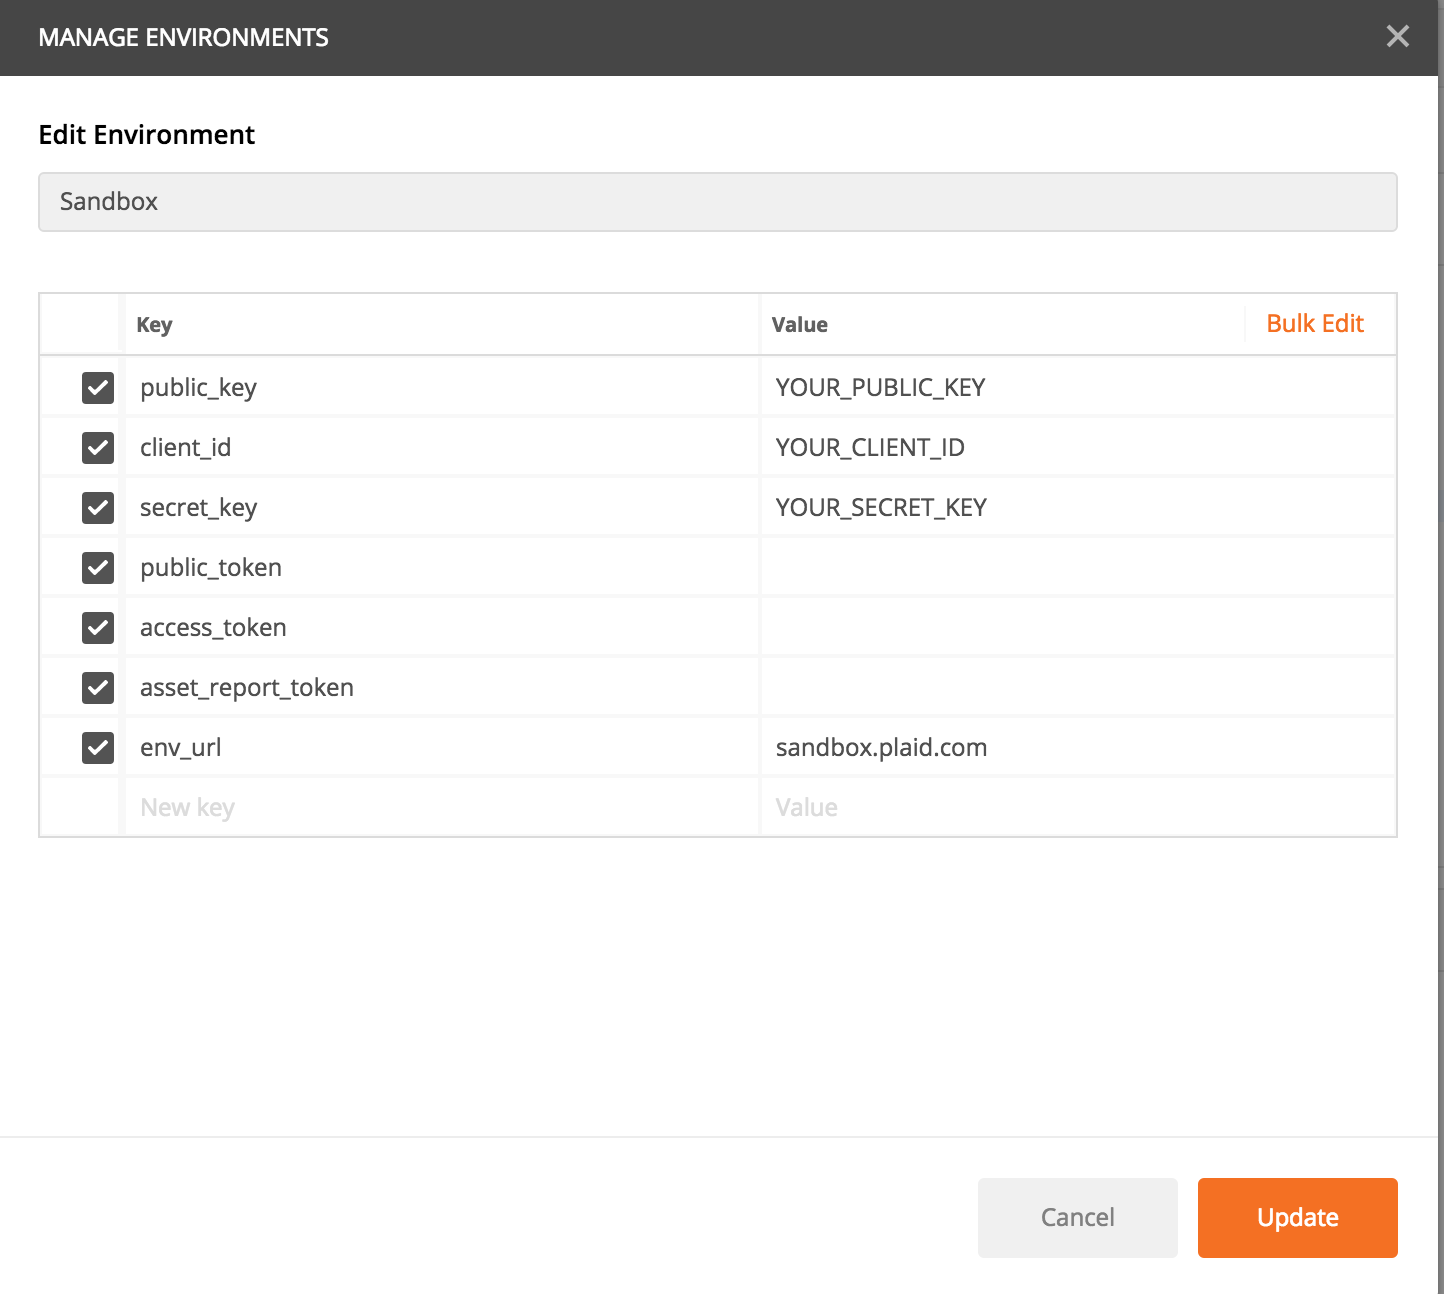
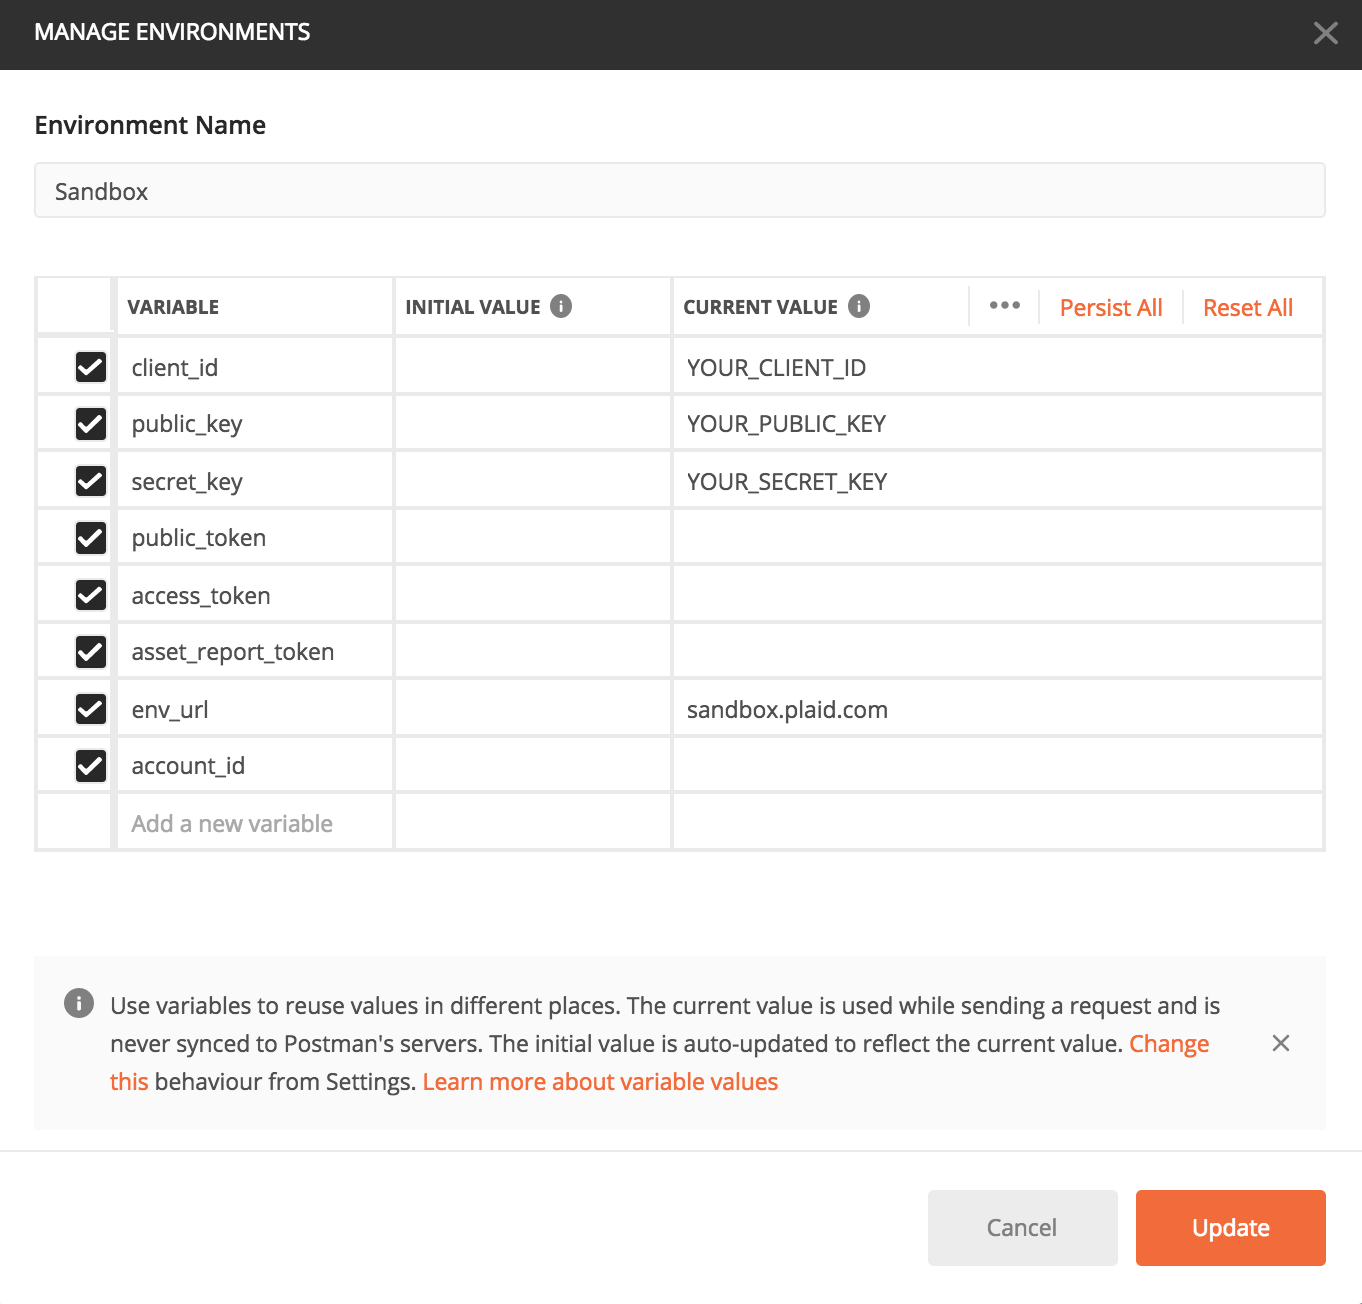
updated postman environment json file that matches Postman App update

diff --git a/README.md b/README.md
@@ -11,12 +11,12 @@ If you would like to learn more about each of our endpoints, please refer to the
 
 ## Initial Setup
 
-1. Clone or download the repo so you have all the files. After you download the Postman app, import your **‘Plaid API Endpoints Collection.json’** and **‘Sandbox Environment.json’** files.
+1. Clone or download the repo so you have all the files. After you download the Postman app, import your **‘Plaid API Endpoints Collection.json’** and **‘Sandbox Environment.json’** files. Make sure the hidebar is not hidden!
 
 ![import_file.png](./images/ImportFile.png)
 ![import.png](./images/Import.png)
 
-2. After importing both the collection and the environment, set your environment variables for Sandbox. This can be done by clicking on the eye icon as shown below and then clicking on ‘edit’. You can find your `public_key`, `client_id`, and `secret` on your Plaid [dashboard](https://dashboard.plaid.com/account/keys). Leave the `env_url` as it is.
+2. After importing both the collection and the environment, make sure the Sandbox environment is selected in order to set your environment variables. This can be done by clicking on the eye icon as shown below and then clicking on ‘edit’. You can find your `public_key`, `client_id`, and `secret` on your Plaid [dashboard](https://dashboard.plaid.com/account/keys). Leave the `env_url` as it is. Please input your variables under the "Current Value" fields. 
 
 ![eye.png](./images/Eye.png)
 ![keys.png](./images/keys.png)
